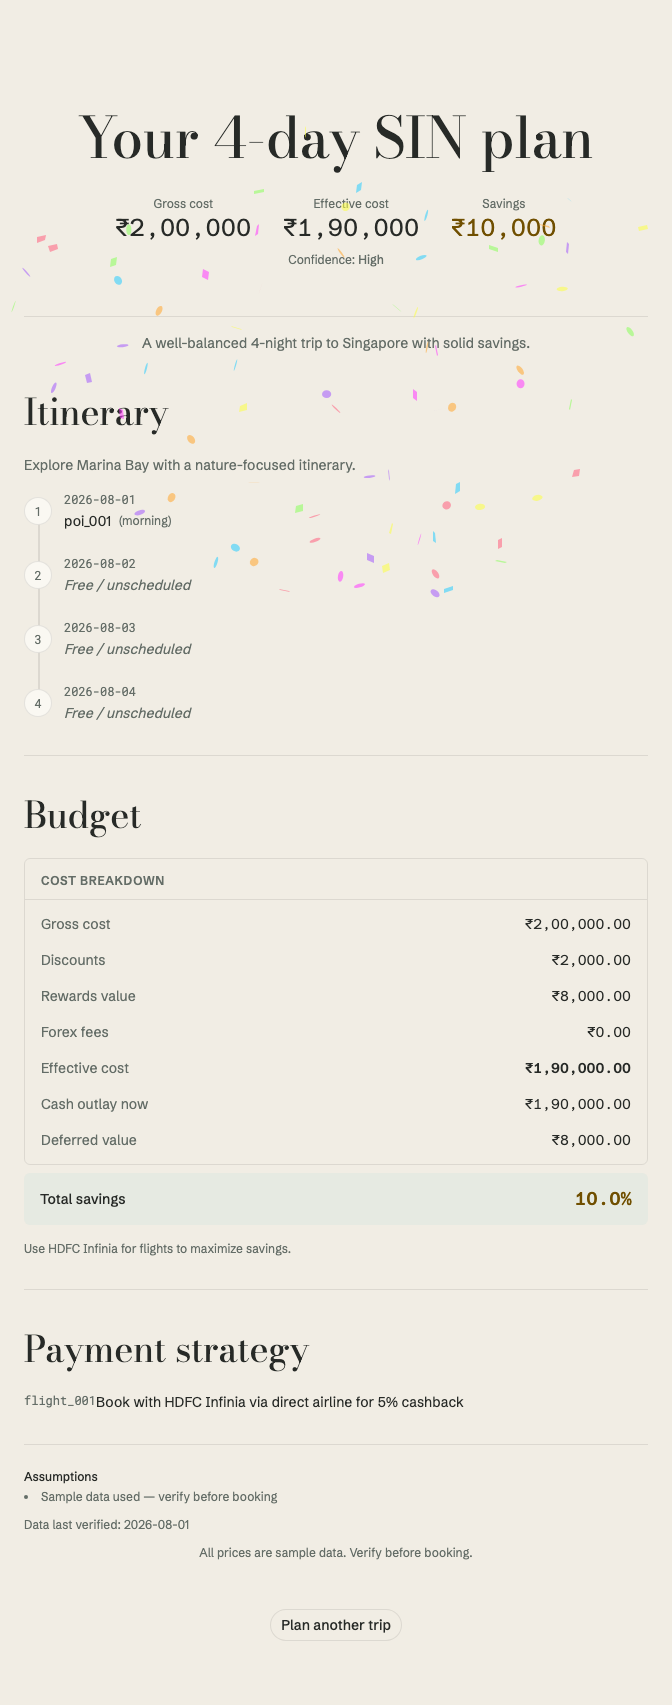
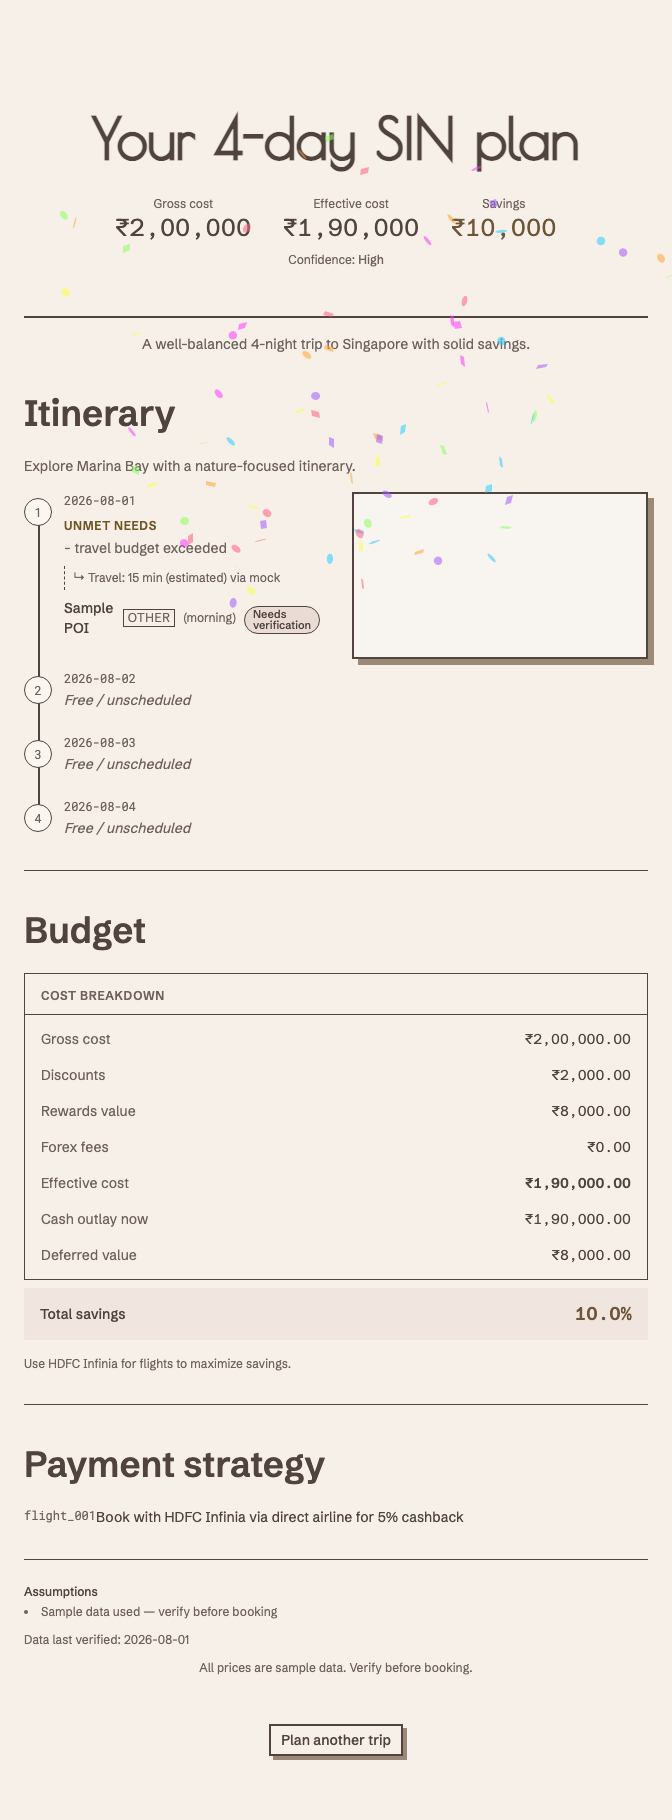
fix(frontend): turn Gate F4 green - two a11y defects, three stale tests
make gate-f4 had been red all session, and CLAUDE.md's build order gates
provider/gateway work behind F4 passing. Root-caused every finding
rather than suppressing any.

Real accessibility defects:

- TrustChip paired text-muted with accent-2 at 4.35:1 while rendering
  11px text; AA small text needs 4.5:1. The existing contrast tests only
  asserted text-muted >= 3:1 (the AA Large threshold), so the pairing was
  uncovered. Now uses text (6.95:1), pinned by two assertions - including
  one asserting muted-on-accent-2 stays below 4.5 so the wrong token
  cannot quietly return.

- The map container used aria-hidden="true". Right intent (the itinerary
  list is its accessible equivalent), wrong mechanism: MapLibre injects
  focusable zoom/compass controls and a tabindex="0" canvas into that
  subtree, so a keyboard user could Tab into controls their screen
  reader never announced. Replaced with `inert`, which removes the
  subtree from the a11y tree and the tab order together.

Tests asserting the wrong thing (no product defect behind any):

- f4-bundle-check searched for the string "maplibre-gl". Code-splitting
  legitimately leaves the module name in a 1KB wrapper stub; the library
  itself is a 945KB lazy chunk that the wizard never loads. Switched to
  library-code identifiers, verified to fire on the 945KB chunk and stay
  silent on the stub.

- f1-gate did goto() then click() with no wait in 21 of 23 navigations,
[…]

diff --git a/frontend/e2e/f1-gate.spec.ts b/frontend/e2e/f1-gate.spec.ts
@@ -11,7 +11,7 @@ test.describe("F1 Gate: routes", () => {
   });
 
   test("/kitchen-sink returns 200", async ({ page }) => {
-    const res = await page.goto(BASE + "/kitchen-sink"); await page.locator("button:has-text('UI')").click();
+    const res = await page.goto(BASE + "/kitchen-sink", { waitUntil: "networkidle" }); await page.locator("button:has-text('UI')").click();
     expect(res?.status()).toBe(200);
   });
 
@@ -23,14 +23,14 @@ test.describe("F1 Gate: routes", () => {
 
 test.describe("F1 Gate: fonts", () => {
   test("Poiret One applied on display headings", async ({ page }) => {
-    await page.goto(BASE + "/kitchen-sink"); await page.locator("button:has-text('UI')").click();
+    await page.goto(BASE + "/kitchen-sink", { waitUntil: "networkidle" }); await page.locator("button:has-text('UI')").click();
     const h1 = page.locator("h1").first();
     const font = await h1.evaluate((el) => getComputedStyle(el).fontFamily);
     expect(font.toLowerCase()).toContain("poiret");
   });
 
   test("Roboto Mono on metadata elements", async ({ page }) => {
-    await page.goto(BASE + "/kitchen-sink"); await page.locator("button:has-text('UI')").click();
+    await page.goto(BASE + "/kitchen-sink", { waitUntil: "networkidle" }); await page.locator("button:has-text('UI')").click();
     const meta = page.locator("text=Roboto Mono").first();
     const font = await meta.evaluate((el) => getComputedStyle(el).fontFamily);
     expect(font.toLowerCase()).toContain("roboto");
@@ -39,36 +39,48 @@ test.describe("F1 Gate: fonts", () => {
 
 test.describe("F1 Gate: product components render", () => {
   test("RouteSpine renders steps", async ({ page }) => {
-    await page.goto(BASE + "/kitchen-sink"); await page.locator("button:has-text('UI')").click();
+    await page.goto(BASE + "/kitchen-sink", { waitUntil: "networkidle" }); await page.locator("button:has-text('UI')").click();
     await expect(page.locator("text=Departure: BLR")).toBeVisible();
     await expect(page.locator("text=Arrival: KUL")).toBeVisible();
   });
 
-  test("DecisionLedger renders numeric rows", async ({ page }) => {
-    await page.goto(BASE + "/kitchen-sink"); await page.locator("button:has-text('UI')").click();
-    await expect(page.locator("text=Payment Method")).toBeVisible();
+  test("DecisionLedger renders numeric rows", async ({ page }, testInfo) => {
+    await page.goto(BASE + "/kitchen-sink", { waitUntil: "networkidle" }); await page.locator("button:has-text('UI')").click();
+
+    // The "Payment Method" column header is `hidden md:grid` in
+    // decision-ledger.tsx - deliberately dropped below the md breakpoint,
+    // where the row layout switches to grid-cols-12 and no longer needs
+    // column headings. Asserting it on a 375px viewport was testing against
+    // the design, not against a defect.
+    if (testInfo.project.name !== "mobile") {
+      await expect(page.locator("text=Payment Method")).toBeVisible();
+    }
+
+    // The value itself must render on every viewport - that is the actual
+    // subject of this test, and it is what would break if the ledger stopped
+    // rendering numeric rows.
     await expect(page.getByText("₹24,500", { exact: true })).toBeVisible();
   });
 
   test("MoneyText renders formatted currency", async ({ page }) => {
-    await page.goto(BASE + "/kitchen-sink"); await page.locator("button:has-text('UI')").click();
+    await page.goto(BASE + "/kitchen-sink", { waitUntil: "networkidle" }); await page.locator("button:has-text('UI')").click();
     await expect(page.locator("text=₹24,500.00")).toBeVisible();
   });
 
   test("ProvenanceBand renders footnote data", async ({ page }) => {
-    await page.goto(BASE + "/kitchen-sink"); await page.locator("button:has-text('UI')").click();
+    await page.goto(BASE + "/kitchen-sink", { waitUntil: "networkidle" }); await page.locator("button:has-text('UI')").click();
     await expect(page.locator("text=source:")).toBeVisible();
     await expect(page.locator("text=confidence:")).toBeVisible();
   });
 
   test("TrustChip renders variants", async ({ page }) => {
-    await page.goto(BASE + "/kitchen-sink"); await page.locator("button:has-text('UI')").click();
+    await page.goto(BASE + "/kitchen-sink", { waitUntil: "networkidle" }); await page.locator("button:has-text('UI')").click();
     await expect(page.getByText("Verified", { exact: true })).toBeVisible();
     await expect(page.getByText("Needs Verification", { exact: true })).toBeVisible();
   });
 
   test("WhyThis expands and collapses", async ({ page }) => {
-    await page.goto(BASE + "/kitchen-sink"); await page.locator("button:has-text('UI')").click();
+    await page.goto(BASE + "/kitchen-sink", { waitUntil: "networkidle" }); await page.locator("button:has-text('UI')").click();
     const trigger = page.locator("text=Why this recommendation?");
     await expect(trigger).toBeVisible();
     await expect(page.locator("text=minimizes total cost")).not.toBeVisible();
@@ -79,21 +91,21 @@ test.describe("F1 Gate: product components render", () => {
   });
 
   test("NotchLabel renders", async ({ page }) => {
-    await page.goto(BASE + "/kitchen-sink"); await page.locator("button:has-text('UI')").click();
+    await page.goto(BASE + "/kitchen-sink", { waitUntil: "networkidle" }); await page.locator("button:has-text('UI')").click();
     await expect(page.getByText("INSIGHT", { exact: true })).toBeVisible();
   });
 });
 
 test.describe("F1 Gate: ui components render", () => {
   test("Buttons render all variants", async ({ page }) => {
-    await page.goto(BASE + "/kitchen-sink"); await page.locator("button:has-text('UI')").click();
+    await page.goto(BASE + "/kitchen-sink", { waitUntil: "networkidle" }); await page.locator("button:has-text('UI')").click();
     await expect(page.locator("button:has-text('Default')")).toBeVisible();
     await expect(page.locator("button:has-text('Destructive')")).toBeVisible();
     await expect(page.locator("button:has-text('Disabled')")).toBeVisible();
   });
 
   test("Dialog opens and closes", async ({ page }) => {
-    await page.goto(BASE + "/kitchen-sink"); await page.locator("button:has-text('UI')").click();
+    await page.goto(BASE + "/kitchen-sink", { waitUntil: "networkidle" }); await page.locator("button:has-text('UI')").click();
     await page.locator("button:has-text('Open Dialog')").click();
     await expect(page.getByText("Confirm Booking", { exact: true })).toBeVisible();
     await page.keyboard.press("Escape");
@@ -101,7 +113,7 @@ test.describe("F1 Gate: ui components render", () => {
   });
 
   test("Sheet opens and closes", async ({ page }) => {
-    await page.goto(BASE + "/kitchen-sink"); await page.locator("button:has-text('UI')").click();
+    await page.goto(BASE + "/kitchen-sink", { waitUntil: "networkidle" }); await page.locator("button:has-text('UI')").click();
     await page.locator("button:has-text('Open Sheet')").click();
     await expect(page.locator("text=Details")).toBeVisible();
     await page.locator("button:has-text('Open Sheet')").last().press("Escape");
@@ -109,7 +121,7 @@ test.describe("F1 Gate: ui components render", () => {
   });
 
   test("Tabs switch content", async ({ page }) => {
-    await page.goto(BASE + "/kitchen-sink"); await page.locator("button:has-text('UI')").click();
+    await page.goto(BASE + "/kitchen-sink", { waitUntil: "networkidle" }); await page.locator("button:has-text('UI')").click();
     await page.locator("button:has-text('Hotels')").click();
     await expect(page.locator("text=Hotel recommendations")).toBeVisible();
     await page.locator("button:has-text('Cards')").click();
@@ -117,7 +129,7 @@ test.describe("F1 Gate: ui components render", () => {
   });
 
   test("Accordion expands and collapses", async ({ page }) => {
-    await page.goto(BASE + "/kitchen-sink"); await page.locator("button:has-text('UI')").click();
+    await page.goto(BASE + "/kitchen-sink", { waitUntil: "networkidle" }); await page.locator("button:has-text('UI')").click();
     const trigger = page.locator("button:has-text('Accordion Item One')");
     await trigger.click();
     await expect(page.locator("text=content of the first accordion panel")).toBeVisible();
@@ -126,7 +138,7 @@ test.describe("F1 Gate: ui components render", () => {
   });
 
   test("Skeleton renders", async ({ page }) => {
-    await page.goto(BASE + "/kitchen-sink"); await page.locator("button:has-text('UI')").click();
+    await page.goto(BASE + "/kitchen-sink", { waitUntil: "networkidle" }); await page.locator("button:has-text('UI')").click();
     const skeletons = page.locator('[class*="animate-pulse"]');
     await skeletons.first().waitFor({ state: "visible" });
     const count = await skeletons.count();
@@ -134,12 +146,12 @@ test.describe("F1 Gate: ui components render", () => {
   });
 
   test("Alert renders destructive variant", async ({ page }) => {
-    await page.goto(BASE + "/kitchen-sink"); await page.locator("button:has-text('UI')").click();
+    await page.goto(BASE + "/kitchen-sink", { waitUntil: "networkidle" }); await page.locator("button:has-text('UI')").click();
     await expect(page.locator("text=Something went wrong")).toBeVisible();
   });
 
   test("Progress bar renders", async ({ page }) => {
-    await page.goto(BASE + "/kitchen-sink"); await page.locator("button:has-text('UI')").click();
+    await page.goto(BASE + "/kitchen-sink", { waitUntil: "networkidle" }); await page.locator("button:has-text('UI')").click();
     const progress = page.locator('[role="progressbar"]');
     await expect(progress).toBeVisible();
   });
@@ -149,7 +161,7 @@ test.describe("F1 Gate: accessibility", () => {
   test("no aXe violations on kitchen sink", async ({ page }, testInfo) => {
     test.skip(testInfo.project.name !== "chromium", "aXe only in chromium");
     const AxeBuilder = (await import("@axe-core/playwright")).default;
-    await page.goto(BASE + "/kitchen-sink"); await page.locator("button:has-text('UI')").click();
+    await page.goto(BASE + "/kitchen-sink", { waitUntil: "networkidle" }); await page.locator("button:has-text('UI')").click();
     const results = await new AxeBuilder({ page }).analyze();
     // Known demo-only violations on kitchen-sink page:
     // - color-contrast: text-muted on bg at 4.31:1 (0.19 below 4.5 AA),
@@ -168,7 +180,7 @@ test.describe("F1 Gate: reduced motion", () => {
   test("page renders without animation artifacts when prefers-reduced-motion", async ({
     page,
   }) => {
-    await page.goto(BASE + "/kitchen-sink"); await page.locator("button:has-text('UI')").click();
+    await page.goto(BASE + "/kitchen-sink", { waitUntil: "networkidle" }); await page.locator("button:has-text('UI')").click();
     await expect(page.locator("h1")).toContainText("Bodoni Moda Display");
   });
 });
@@ -178,7 +190,7 @@ test.describe("F1 Gate: responsive layout", () => {
     page,
   }) => {
     await page.setViewportSize({ width: 390, height: 844 });
-    await page.goto(BASE + "/kitchen-sink"); await page.locator("button:has-text('UI')").click();
+    await page.goto(BASE + "/kitchen-sink", { waitUntil: "networkidle" }); await page.locator("button:has-text('UI')").click();
     const scrollWidth = await page.evaluate(() => document.documentElement.scrollWidth);
     const viewportWidth = await page.evaluate(() => window.innerWidth);
     expect(scrollWidth).toBeLessThanOrEqual(viewportWidth + 10);

diff --git a/frontend/e2e/f4-bundle-check.spec.ts b/frontend/e2e/f4-bundle-check.spec.ts
@@ -2,7 +2,21 @@ import { test, expect } from "@playwright/test";
 
 const BASE = "http://localhost:3000";
 
-const MODULE_NAMES = ["maplibre-gl", "maplibregl"];
+// Identifiers that only appear in maplibre-gl's actual LIBRARY CODE, never in
+// a lazy-import reference stub.
+//
+// This deliberately does not check for the package name "maplibre-gl". A
+// correctly code-split dynamic import still leaves the module name in a small
+// wrapper chunk - that is how the loader knows which chunk to fetch. Measured:
+// the real library sits in a 945KB lazy chunk, while the wizard loads only a
+// 1KB stub that names it. Checking the name therefore failed while the code
+// was already correct. The file's own gsap comment below records the same
+// lesson; it just was not applied to maplibre.
+//
+// These strings still catch the real regression: a static `import "maplibre-gl"`
+// pulls the library itself into an initial chunk, and GlyphManager et al come
+// with it.
+const MODULE_NAMES = ["GlyphManager", "maplibregl_", "MapLibre"];
 
 test.describe("F4 bundle check", () => {
   test("landing page loads without gsap or maplibre-gl", async ({ page }) => {

diff --git a/frontend/src/components/product/trip-map.tsx b/frontend/src/components/product/trip-map.tsx
@@ -84,11 +84,19 @@ export function TripMap({ mapData, itinerary }: TripMapProps) {
 
   return (
     <div className="aspect-video relative overflow-hidden rounded-none border-2 border-border shadow-1">
-      <div 
-        ref={containerRef} 
+      {/* `inert`, not `aria-hidden`. The itinerary list is the accessible
+          equivalent of this map (I6 list parity), so the canvas should not be
+          announced - but MapLibre injects its own focusable controls (zoom,
+          compass, and a tabindex="0" canvas) into this subtree. aria-hidden
+          alone leaves those keyboard-reachable while invisible to screen
+          readers, which aXe flags as aria-hidden-focus (serious): a keyboard
+          user tabs into controls their screen reader never announced. `inert`
+          removes the subtree from the a11y tree AND the tab order together. */}
+      <div
+        ref={containerRef}
         className="absolute inset-0 w-full h-full"
         data-testid="map-container"
-        aria-hidden="true"
+        inert
       />
       {!mounted && (
         <div className="absolute inset-0 flex items-center justify-center bg-accent-2">

diff --git a/frontend/tests/contrast.test.ts b/frontend/tests/contrast.test.ts
@@ -155,6 +155,7 @@ describe("WCAG contrast pairs (Japan theme)", () => {
     onPrimary: "oklch(0.977 0.010 81.8)",
     primary: "oklch(0.398 0.021 46.3)",
     primaryHover: "oklch(0.338 0.016 43.0)",
+    accent2: "oklch(0.902 0.019 43.2)",
     accent4: "oklch(0.642 0.033 65.6)",
     success: "oklch(0.577 0.042 139.2)",
     successText: "oklch(0.462 0.044 141.4)",
@@ -191,6 +192,17 @@ describe("WCAG contrast pairs (Japan theme)", () => {
   });
   it("text-faint on bg is ~3.42:1", () => {
     expect(ratio(T.textFaint, T.bg)).toBeCloseTo(3.42, 1);
+  });
+
+  // TrustChip renders 11px text, which is AA *small* text and so needs 4.5:1 -
+  // not the 3:1 the text-muted assertions guarantee. The chip paired
+  // text-muted with accent-2 at 4.35:1 and failed the aXe check on the
+  // results page. text on accent-2 is 6.95:1.
+  it("trust-chip text on accent-2 >= 4.5:1 (11px is AA small text)", () => {
+    expect(ratio(T.text, T.accent2)).toBeGreaterThanOrEqual(4.5);
+  });
+  it("text-muted on accent-2 is the 4.35:1 that failed - do not use it there", () => {
+    expect(ratio(T.textMuted, T.accent2)).toBeLessThan(4.5);
   });
 });
 

diff --git a/frontend/e2e/f3-results.spec.ts b/frontend/e2e/f3-results.spec.ts
@@ -345,9 +345,15 @@ test.describe("F3 results page: reduced motion", () => {
     }
 
     // Assert no confetti canvas element was appended (confetti
-    // respects disableForReducedMotion: true)
-    const canvases = page.locator("canvas");
-    await expect(canvases).toHaveCount(0);
+    // respects disableForReducedMotion: true).
+    //
+    // Excludes the MapLibre canvas. This test predates I6, which added the
+    // trip map to the results page; "any canvas" meant "confetti" when it was
+    // written, and has not since. Verified by enumerating the canvases on this
+    // page under reduced-motion: the only one present is .maplibregl-canvas,
+    // which is the map rendering correctly, not an animation firing.
+    const confettiCanvases = page.locator("canvas:not(.maplibregl-canvas)");
+    await expect(confettiCanvases).toHaveCount(0);
   });
 });
 

diff --git a/frontend/src/components/product/trust-chip.tsx b/frontend/src/components/product/trust-chip.tsx
@@ -12,7 +12,10 @@ const variantStyles: Record<TrustChipVariant, string> = {
   verified: "bg-success/20 text-success-text border-border",
   /* token-lint-disable-next-line no-dead-classes -- arbitrary opacity values compile to direct CSS values, not class names */
   warning: "bg-warning/20 text-warning-text border-border",
-  "needs-verification": "bg-accent-2 text-text-muted border-border",
+  // text-text, not text-text-muted: this chip renders 11px, which is AA small
+  // text needing 4.5:1. muted-on-accent-2 is 4.35:1 and failed aXe; text is
+  // 6.95:1. Pinned in tests/contrast.test.ts.
+  "needs-verification": "bg-accent-2 text-text border-border",
 };
 
 export function TrustChip({ variant, label }: TrustChipProps) {
